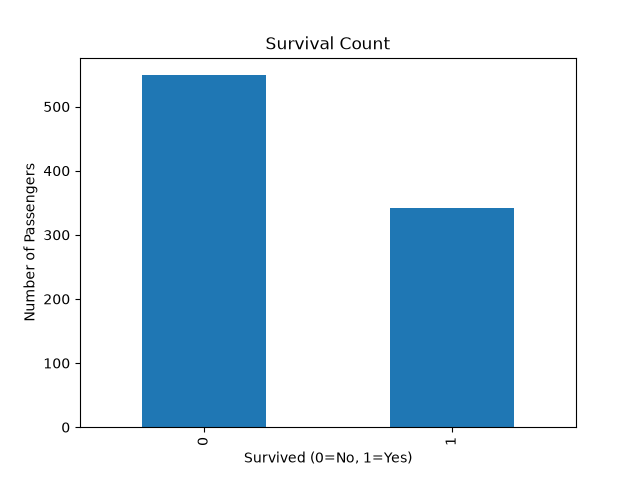
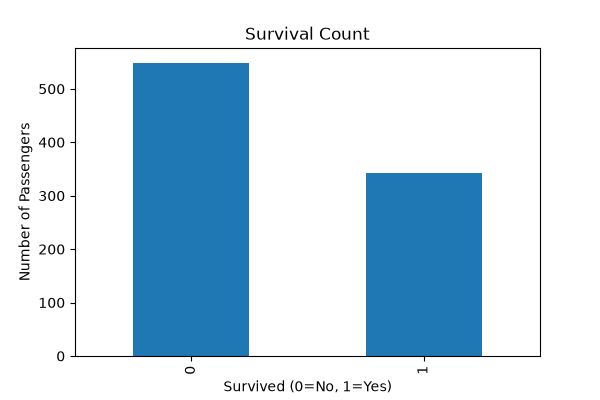
Add files via upload

diff --git a/visualization.py b/visualization.py
@@ -1,0 +1,75 @@
+import pandas as pd
+import matplotlib.pyplot as plt
+import seaborn as sns
+
+# Load Dataset
+df = pd.read_csv("titanic.csv")
+
+# ------------------------
+# Survival Count Graph
+# ------------------------
+
+plt.figure(figsize=(6,4))
+
+df['Survived'].value_counts().plot(kind='bar')
+
+plt.title("Survival Count")
+plt.xlabel("Survived (0=No, 1=Yes)")
+plt.ylabel("Number of Passengers")
+
+plt.savefig("survival_count.png")
+
+plt.show()
+
+
+# ------------------------
+# Male vs Female Survival
+# ------------------------
+
+plt.figure(figsize=(6,4))
+
+sns.countplot(x='Sex', hue='Survived', data=df)
+
+plt.title("Male vs Female Survival")
+
+plt.savefig("male_female_survival.png")
+
+plt.show()
+
+
+# ------------------------
+# Age Distribution
+# ------------------------
+
+plt.figure(figsize=(8,5))
+
+plt.hist(df['Age'].dropna(), bins=20)
+
+plt.title("Age Distribution")
+plt.xlabel("Age")
+plt.ylabel("Number of Passengers")
+
+plt.savefig("age_distribution.png")
+
+plt.show()
+
+
+# ------------------------
+# Correlation Heatmap
+# ------------------------
+
+plt.figure(figsize=(8,6))
+
+numeric_df = df.select_dtypes(include=['number'])
+
+sns.heatmap(
+    numeric_df.corr(),
+    annot=True,
+    cmap='coolwarm'
+)
+
+plt.title("Correlation Heatmap")
+
+plt.savefig("correlation_heatmap.png")
+
+plt.show()